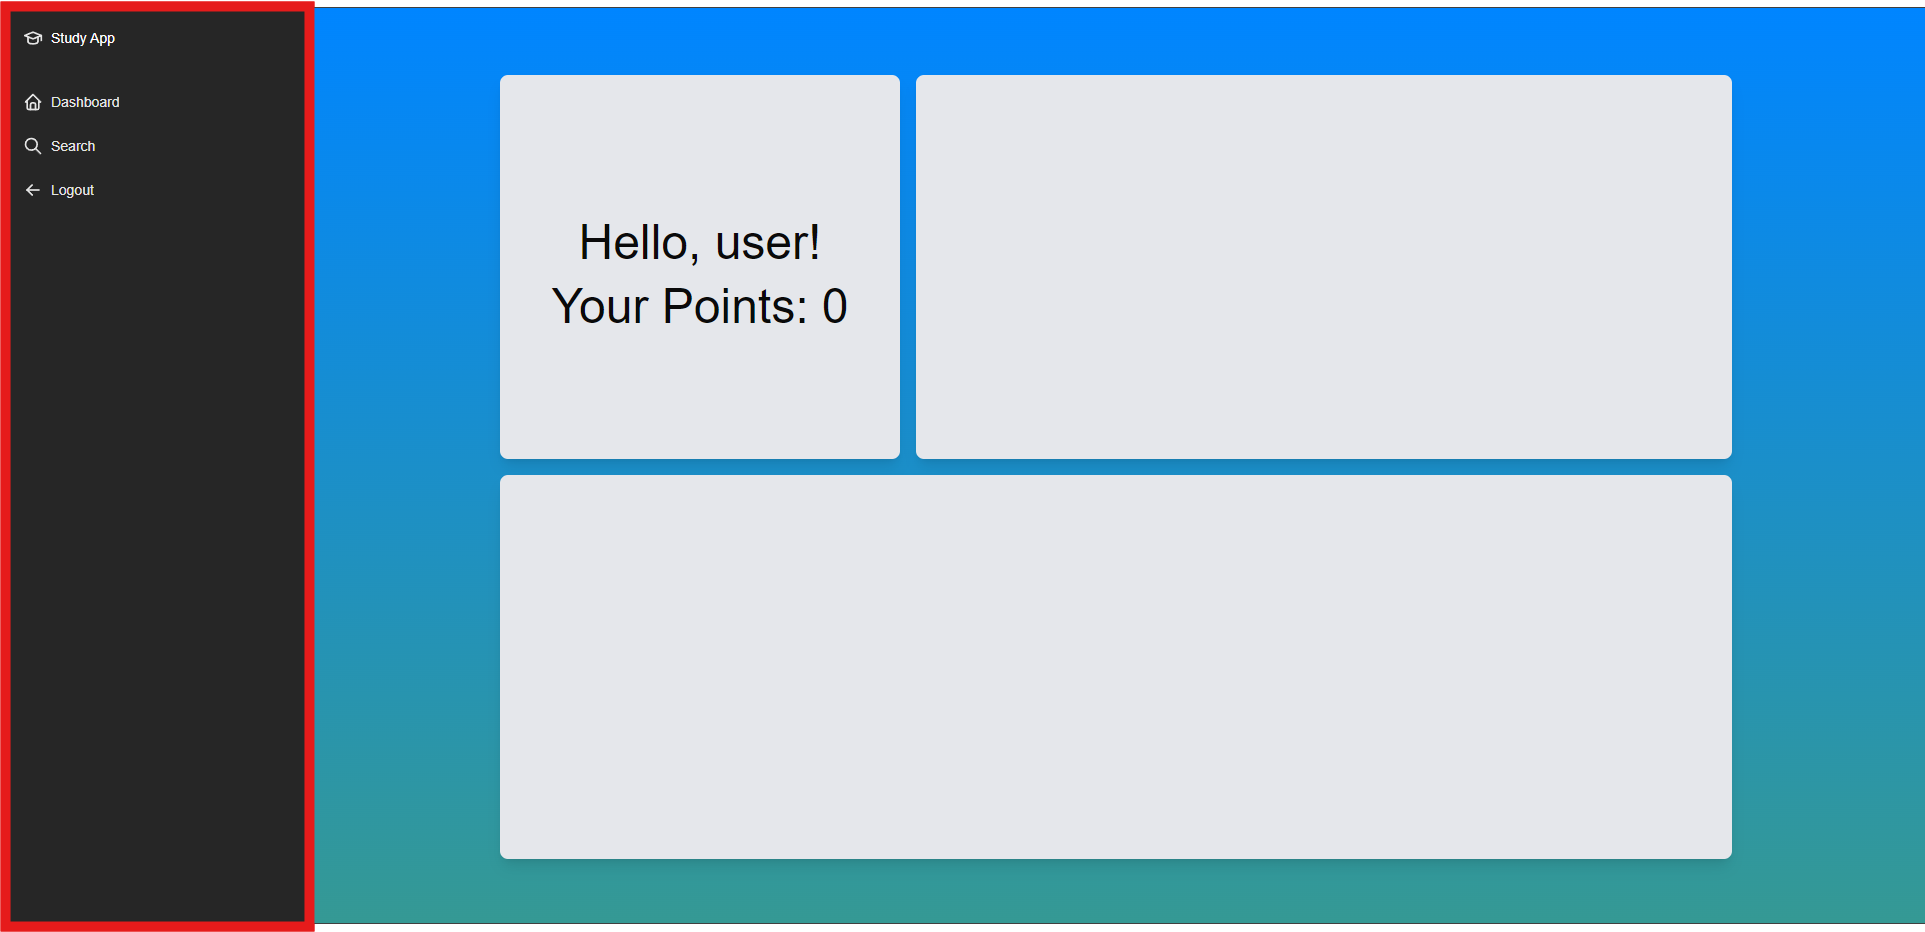
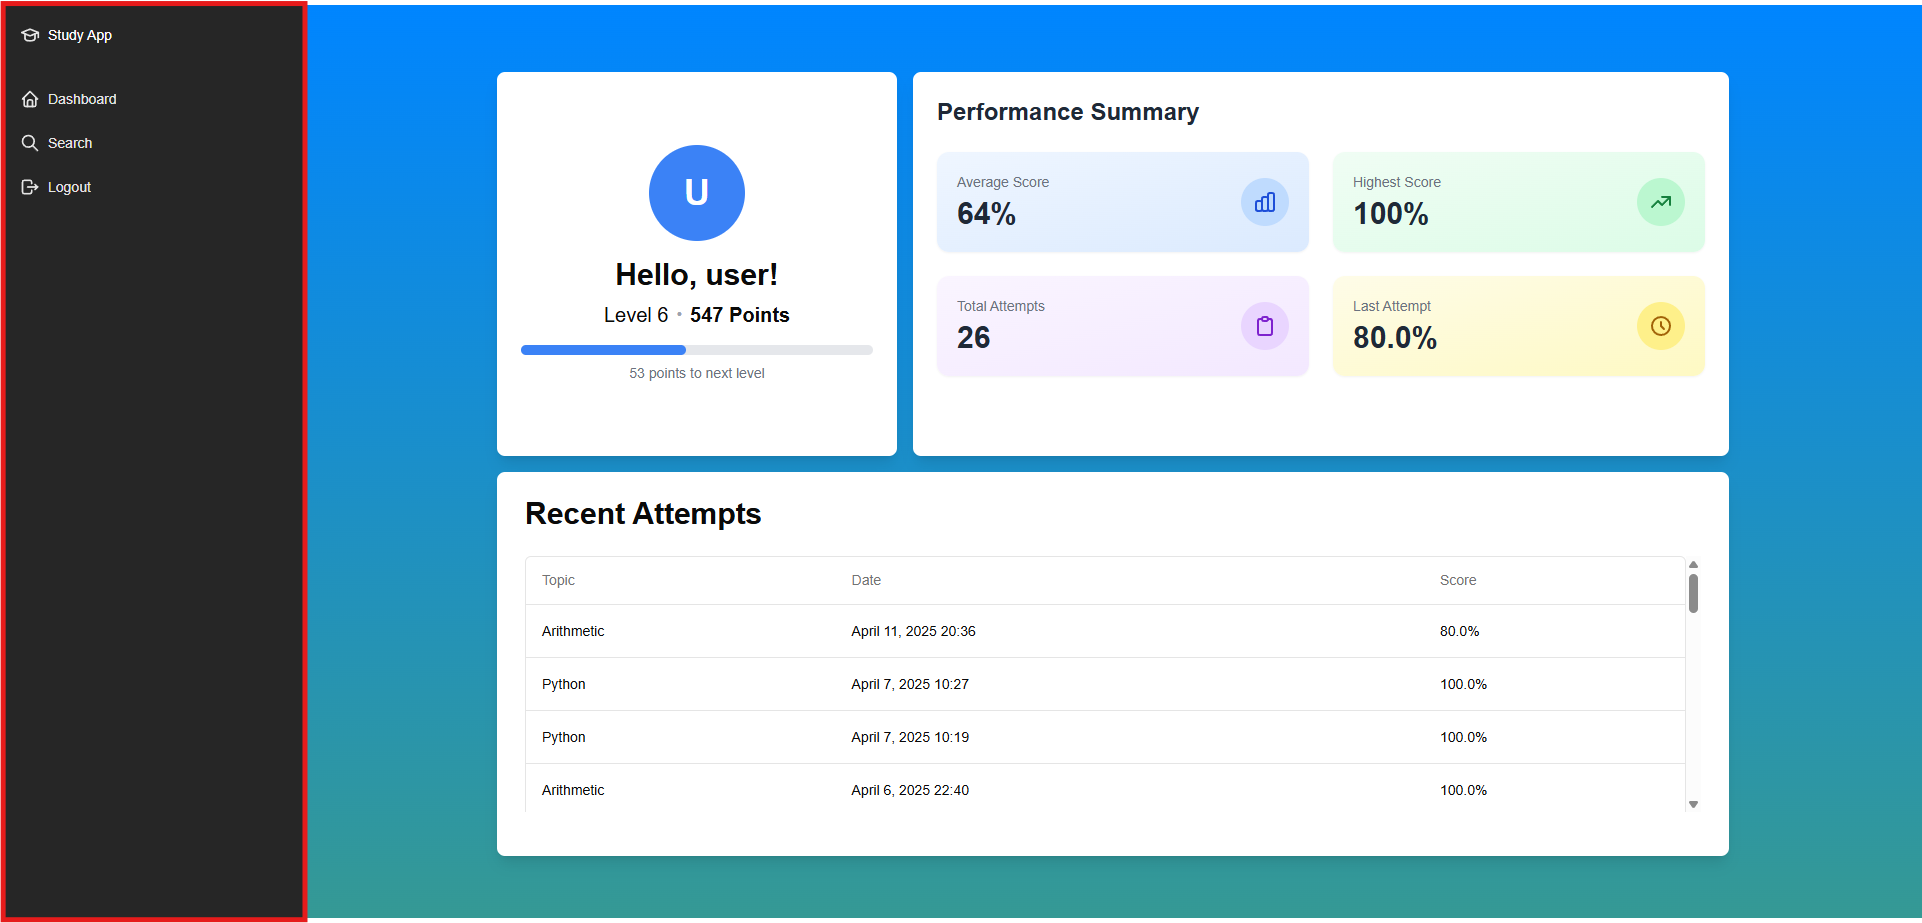
Add Diagrams

diff --git a/documents/final_report.tex b/documents/final_report.tex
@@ -144,7 +144,7 @@ The original Angular (known as AngularJS) was created in 2009 as an open-source,
 
 While AngularJS revolved around the MVC framework, Angular was designed to be a component-based framework. Each component is made up of HTML, CSS and TypeScript files, an example of which an be shown as:
 
-\begin{lstlisting}[language=javascript]
+\begin{lstlisting}[language=javascript, caption={An example of a "Hello World" component in Angular\cite{HELLO_ANGULAR}}]
 	import { Component } from '@angular/core';
 	
 	@Component({
@@ -158,7 +158,6 @@ While AngularJS revolved around the MVC framework, Angular was designed to be a 
 		title = 'homes';
 	}
 \end{lstlisting}
-\captionof{figure}{An example of a "Hello World" component in Angular\cite{HELLO_ANGULAR}}
 
 Angular's use of TypeScript, as opposed to JavaScript, ensures that projects are statically typed — requiring developers to declare the types of variables, parameters, and return values at compile time, thereby reducing the likelihood of runtime errors. Additionally, TypeScript supports the use of interfaces, allowing custom types to be defined and reused across a project. Combined with Angular’s modular architecture — where logic can be split into separate files and imported as needed — this leads to improved maintainability and scalability in large codebases~\cite{TSvJS}.\\
 
@@ -166,7 +165,7 @@ Angular's use of TypeScript, as opposed to JavaScript, ensures that projects are
 \textbf{React}\\
 React was initially created in 2011 by Facebook and over time expanded as tools were subsequently released to further enhance the React library - ultimately making it into the comprehensive library that developers use today. React itself is used for creating the views for a web page, while a sister component ReactDOM is used to render the UI in the browser~\cite{BANKS_REACT}. More importantly, React utilises JSX - a hybrid of JavaScript and XML, which provides a simplified interface to create React components. An example of how a React component is defined with just JavaScript can be shown as:
 
-\begin{lstlisting}[language=javascript]
+\begin{lstlisting}[language=javascript, caption={An example of a React element being defined with JavaScript\cite{BANKS_REACT}}]
 	function IngredientsList() {
 		return React.createElement(
 			"ul",
@@ -177,18 +176,16 @@ React was initially created in 2011 by Facebook and over time expanded as tools 
 		);
 	}
 \end{lstlisting}
-\captionof{figure}{An example of a React element being defined with JavaScript\cite{BANKS_REACT}}
 
 However when it comes to implementation with JSX, given the use of XML the syntax is comparable with HTML when it comes to developing a webpage, as seen in the following example:
 
-\begin{lstlisting}[language=javascript]
+\begin{lstlisting}[language=javascript, caption={An example of a React element being defined with JSX (IngredientsList and Ingredient are external functions)\cite{BANKS_REACT}}]
 	<IngredientsList>
 		<Ingredient />
 		<Ingredient />
 		<Ingredient />
 	</IngredientsList>
 \end{lstlisting}
-\captionof{figure}{An example of a React element being defined with JSX (IngredientsList and Ingredient are external functions)\cite{BANKS_REACT}}
 
 Usage of JSX with React ultimately makes it easier to learn as a whole, as it combines very well with HTML elements to form the webpages required for the application. Components are also reusable, and ultimately makes React an ideal tool when it comes to Web Development.\\
 
@@ -208,7 +205,7 @@ Node.js was created in 2009 by Ryan Dahl, with inspiration from the V8 JavaScrip
 
 At the same time, given its single-threaded, non-blocking architecture, Node.js is widely used to develop REST APIs. This is achieved through the use of Express, which is the module that brings support for creating APIs to Node.js~\cite{NODE_API}. An example of a Node.js/Express endpoint can be shown below:
 
-\begin{lstlisting}[language=javascript]
+\begin{lstlisting}[language=javascript, caption={A basic GET endpoint that responds with a JSON object~\cite{NODE_API}}]
 	import express from "express";
 
 	const PORT = 3000;
@@ -218,7 +215,6 @@ At the same time, given its single-threaded, non-blocking architecture, Node.js 
 
 	app.listen(PORT, () => console.log(`NTask API - Port ${PORT}`));
 \end{lstlisting}
-\captionof{figure}{A basic GET endpoint that responds with a JSON object~\cite{NODE_API}}
 
 With the models that Node.js follows, though they are ideal for some applications, for others that are more complex it can become increasingly difficult to manage the code. Alongside this, Node.js does not provide any native support for key security features such as password hashing or role-based access control. Instead, these must be manually configured using external libraries that can introduce additional complexity and maintenance overhead.\\
 
@@ -226,7 +222,7 @@ With the models that Node.js follows, though they are ideal for some application
 
 Spring Boot was released in 2014 as a subproject under the Spring Framework, in order to simplify development of Java Web Applications.~\cite{MUSIB_SPRING} It uses a three-tiered architecture which include layers acting as Controllers, Services and Data Repositories - forming microservices as part of the overall backend system. Similarly to Node.js, Spring Boot can also be used to develop REST APIs for web applications, an example of which can be shown below:
 
-\begin{lstlisting}[language=java]
+\begin{lstlisting}[language=java, caption={A basic GET endpoint that responds with "Hello World!"}]
 	@RestController
 	@NoArgsConstructor
 	@RequestMapping("/api")
@@ -237,7 +233,6 @@ Spring Boot was released in 2014 as a subproject under the Spring Framework, in 
 		}
 	}
 \end{lstlisting}
-\captionof{figure}{A basic GET endpoint that responds with "Hello World!"}
 
 Compared with Node.js however, Spring Boot includes many libraries that significantly enhance the security of web applications by providing built-in support for authentication and authorization, as well as protection against common vulnerabilities such as Cross-Site Request Forgery (CSRF) and Cross-Site Scripting (XSS). 
 
@@ -251,7 +246,7 @@ The biggest difference that NoSQL databases have in common is the use of BASE pr
 
 There are still many databases to choose from that follow ACID properties. Two of the biggest database management systems include PostgreSQL and MySQL - which appear very similar on the surface however there are some key differences which make them stand out from each other. The biggest is that PostgreSQL is an Object-Relational Database Management System, providing the facilities of a standard Relational DBMS with additional Object Oriented concepts. This is beneficial for integration with Spring Boot, as it allows me to define entities that can be translated to database tables - making it possible to manipulate the system via the use of the Repository level in the backend such as in the following example. 
 
-\begin{lstlisting}[language=java]
+\begin{lstlisting}[language=java, caption={Similar functions are provided as built-ins.}]
 @Service
 public class Service {
 	private final EntityRepository entityRepository
@@ -267,11 +262,10 @@ public class Service {
 	}
 }
 \end{lstlisting}
-\captionof{figure}{Similar functions are provided as built-ins.}
 
 Similarly, with how these queries can be translated into Java data structures, it becomes possible to format data into the necessary response packets that I may need for certain requests via the use of custom queries. An example of which can be shown here:
 
-\begin{lstlisting}[language=java]
+\begin{lstlisting}[language=java, caption={Each field returned from the query can be directly translated into a Data Transfer Object, useful for API requests that require specific data.}]
 	// QuestionRepository.java
 	@Query("select new danyal.fyp.awd.dto.admin.question.QuestionDataDto(" +
 		"q.id, q.question, q.answer, q.marks, s.name, t.name) " +
@@ -280,7 +274,6 @@ Similarly, with how these queries can be translated into Java data structures, i
 		"left join t.subject s")
 	List<QuestionDataDto> getQuestionData();
 \end{lstlisting}
-\captionof{figure}{Each field returned from the query can be directly translated into a Data Transfer Object, useful for API requests that require specific data.}
 
 Given its compatibility with Spring Boot, support for complex data types whilst following ACID properties, PostgreSQL appeared to be the most suitable choice for this project's database management system.
 
@@ -292,7 +285,7 @@ Given its compatibility with Spring Boot, support for complex data types whilst 
 
 Many design patterns have been considered throughout the development of the product thus far. This section will break down how and why some have been used in this project.
 \subsection{Dependency Injection}
-Dependency Injection is a core design pattern used in the Spring Framework. The various controllers and services rely on one another to provide full functionality, however given that this is written in Java - these must be instantiated and provided as an argument to the individual components; in Spring, this is done through autowiring. In this project however, I am using the Lombok plugin to handle this for me. This allows me to simplify my code immensely, by using various annotations throughout my code, that automatically generated required constructors upon compiling.
+Dependency Injection is a core design pattern used in the Spring Framework. The various controllers and services rely on one another to provide full functionality, however given that this is written in Java - these must be instantiated and provided as an argument to the individual components; in Spring, this is done through autowiring. In this project however, I am using the \textbf{Lombok} plugin to handle this for me. This allows me to simplify my code immensely, by using various annotations throughout my code, that automatically generated required constructors upon compiling.
 
 \begin{lstlisting}[language=java, caption={An example of a Spring Boot Component with the Lombok Plugin.}]
 	// UserProfileController.java
@@ -305,9 +298,14 @@ Dependency Injection is a core design pattern used in the Spring Framework. The 
 	}
 \end{lstlisting}
 
-In the provided example, the use of the @RequiredArgsConstructor annotation is what generates the constructor for this class. As the controller requires use of a UserService object, Spring will instantiate that and pass it through this constructor to be used for any requests made via this endpoint. This way - I would not be required to manually autowire each of the components that make up a class throughout my backend, in comparison to a regular Spring class such as that provided below.
+\begin{center}
+	\includegraphics[scale=0.475]{inject.png}
+	\captionof{figure}{Dependency Injection allows for the flow of events to be as follows for this API endpoint in particular.}
+\end{center}
 
-\begin{lstlisting}[language=Java, caption={An example of a Spring Boot Component without the Lombok Plugin. Use of the plugin prevents the need for boilerplate code such as this.}]
+In the provided example, the use of the \verb|@RequiredArgsConstructor| annotation is what generates the constructor for this class. As the controller requires use of a UserService object, Spring will instantiate that and pass it through this constructor to be used for any requests made via this endpoint. This way - I would not be required to manually autowire each of the components that make up a class throughout my backend, in comparison to a regular Spring class such as that provided below.
+
+\begin{lstlisting}[language=Java, caption={An example of a Spring Boot Component without the Lombok Plugin. Use of the plugin prevents the need for boilerplate code such as the constructor used here.}]
 	@Service
 	public class AssetService {
 		
@@ -347,12 +345,27 @@ The workflow for this is as follows:
 The Component Based Software Development Approach refers to the idea that a system can be developed via the use of off-the-shelf components, assembled with well defined software architecture~\cite{GPOUR_COMPONENT}. Based on React, Next.JS uses this by allowing developers to make use of reusable components, that contain logic and styling specific to it. This allows for a more organised codebase, making it easier to identify where any potential issues may lie should they appear.
 
 Given this, I have made sure to use different components within my project. A key component that will be present on majority of my webpages would be the Sidebar. By containing this into its own module it has been possible to pass the webpage content as a child component that is wrapped around by the Sidebar.
+\begin{lstlisting}[language=javascript, caption={An abstraction of the SidebarMenu function}]
+	export function SidebarMenu(content) {
+		const [open, setOpen] = useState(false);
+		return (
+			<div className={...}>
+				<Sidebar>
+					...
+				</Sidebar>
+				<div>
+					{content.children}
+				</div>
+			</div>
+		)
+	}
+\end{lstlisting}
 \begin{lstlisting}[language=JavaScript, caption={The SidebarMenu represents the sidebar, while the Dashboard represents the actual page being rendered.}]
 	const Page = () => {
 		
 		return (
 		<div>
-			<SidebarMenu>
+			<SidebarMenu role="ROLE_USER">
 				<Dashboard/>
 			</SidebarMenu>
 		</div>
@@ -404,6 +417,11 @@ An example of how this is setup in my application can be with how we view the li
 \end{lstlisting}
 
 The ResponseEntity object would then contain the necessary data that was requested, and is then returned to the frontend's calling function. In this case, it contains all of the qualifications that were requested for the frontend to receive.
+
+\begin{center}
+	\includegraphics[scale=0.45]{client-server.png}
+	\captionof{figure}{How sequences similar to the above are executed in the application.}
+\end{center}
 
 \subsection{Security Detail}
 
